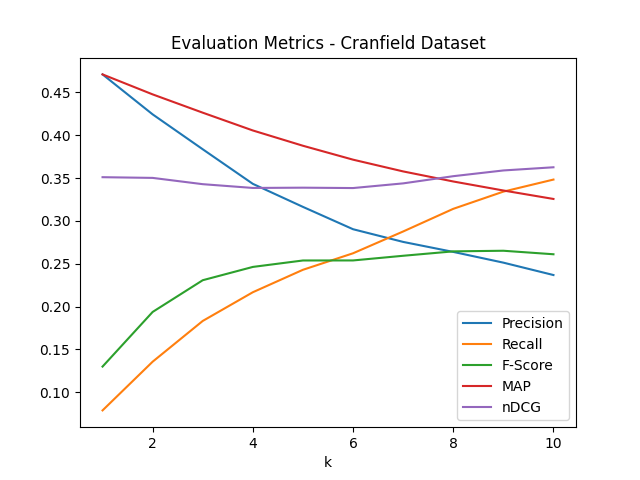
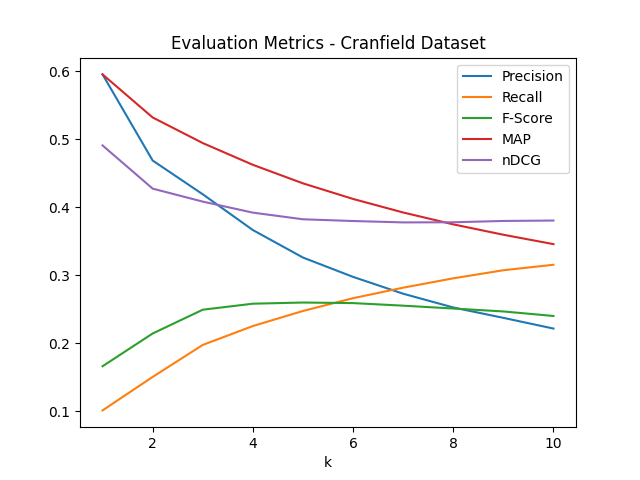
cos change

diff --git a/Assn 2/informationRetrieval.py b/Assn 2/informationRetrieval.py
@@ -46,10 +46,11 @@ class InformationRetrieval():
 		idf_dict = dict(zip(list(tf_dict.keys()), [0] * len(tf_dict)))
 		
 		for word in idf_dict:
-			idf_dict[word] = np.log10(N / np.sum(np.array(list(tf_dict[word].values())) != 0))   # Typically idf calculation involves log2, but I'm using log10 here
+			# Typically idf calculation involves log2, but I'm using log10 here
+			idf_dict[word] = np.log10(N / np.sum(np.array(list(tf_dict[word].values())) > 0))   
 			index[word] = dict(zip(docIDs, [tf * idf_dict[word] for tf in list(tf_dict[word].values())]))
 		
-		dvecs = {}
+		dvecs = {}  # Document vectors of the form {doc_id: document vector of len(vocabulary)} 
 		for id in docIDs:
 			dvec = []
 			for word in idf_dict:
@@ -99,7 +100,8 @@ class InformationRetrieval():
 		
 			scores = {}
 			for id in self.dvecs:
-				scores[id] = cosine_similarity(self.dvecs[id], qvec)
+				a_vec, b_vec = np.array(self.dvecs[id]), np.array(qvec)
+				scores[id] = np.dot(a_vec, b_vec) / (np.linalg.norm(a_vec) * np.linalg.norm(b_vec))
 			
 			doc_IDs_ordered.append(sorted(scores, key=scores.get, reverse=True))
 	

diff --git a/Assn 2/util.py b/Assn 2/util.py
@@ -12,13 +12,3 @@ nltk.download('punkt')
 nltk.download('wordnet')
 
 # Add any utility functions here
-def cosine_similarity(list1, list2):
-    '''
-    Computes the cosine similarity between 2 lists of numbers
-    '''
-    a, b = np.array(list1), np.array(list2)
-    anorm, bnorm = np.linalg.norm(a), np.linalg.norm(b) 
-    
-    if anorm * bnorm == 0:
-        return 0
-    return a.T @ b
